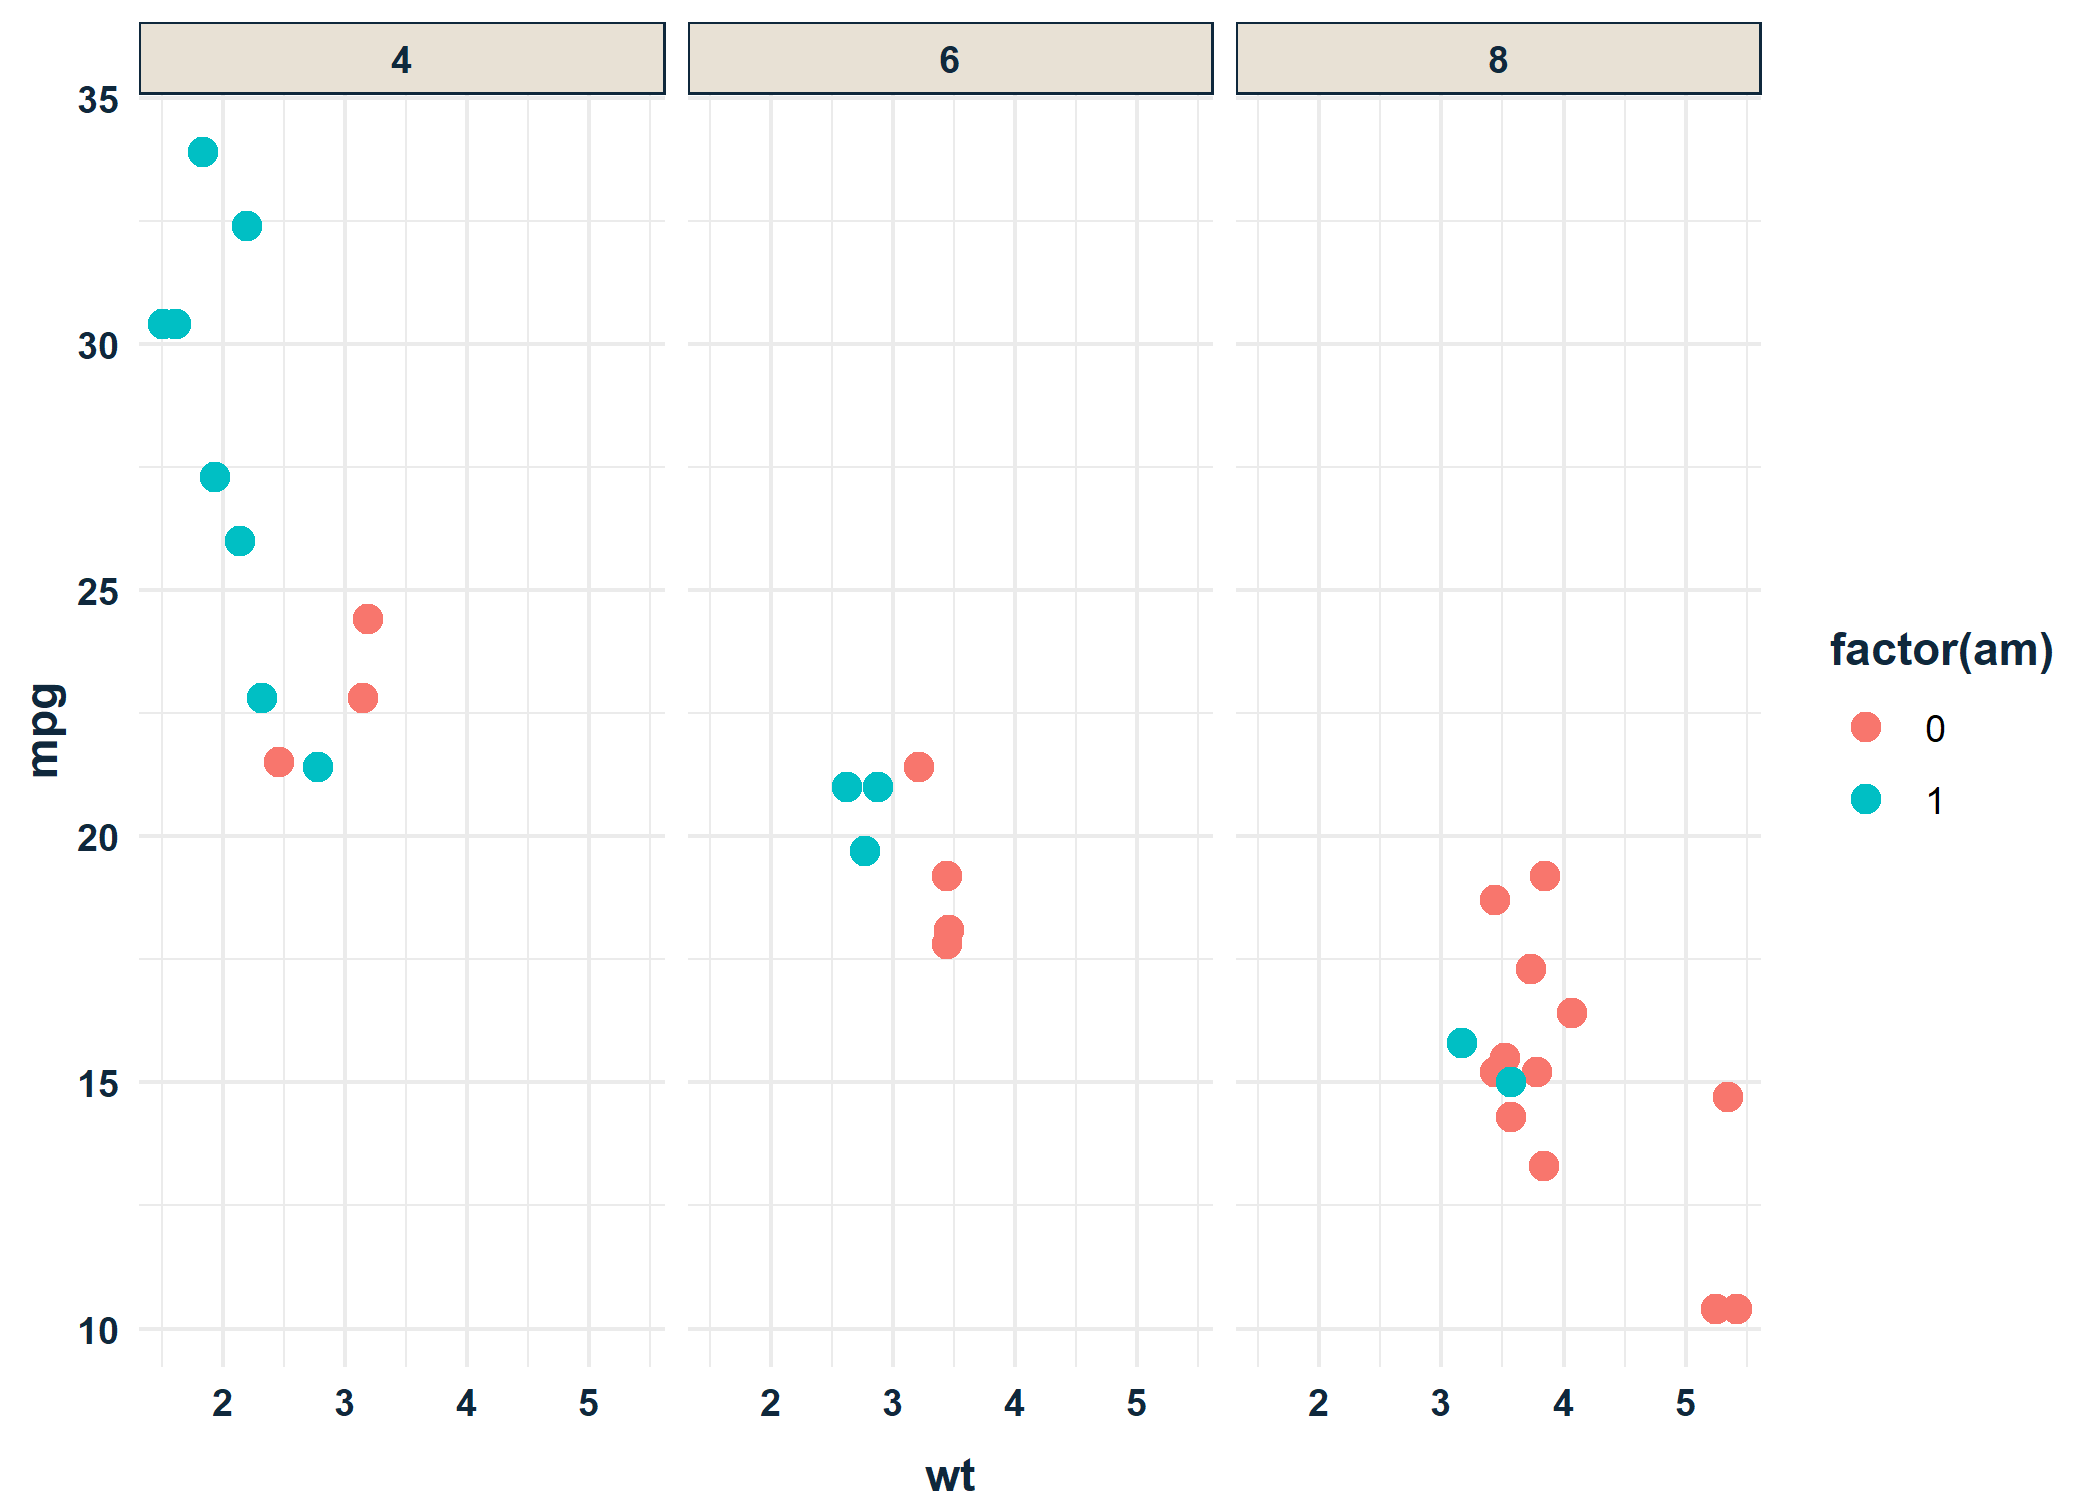
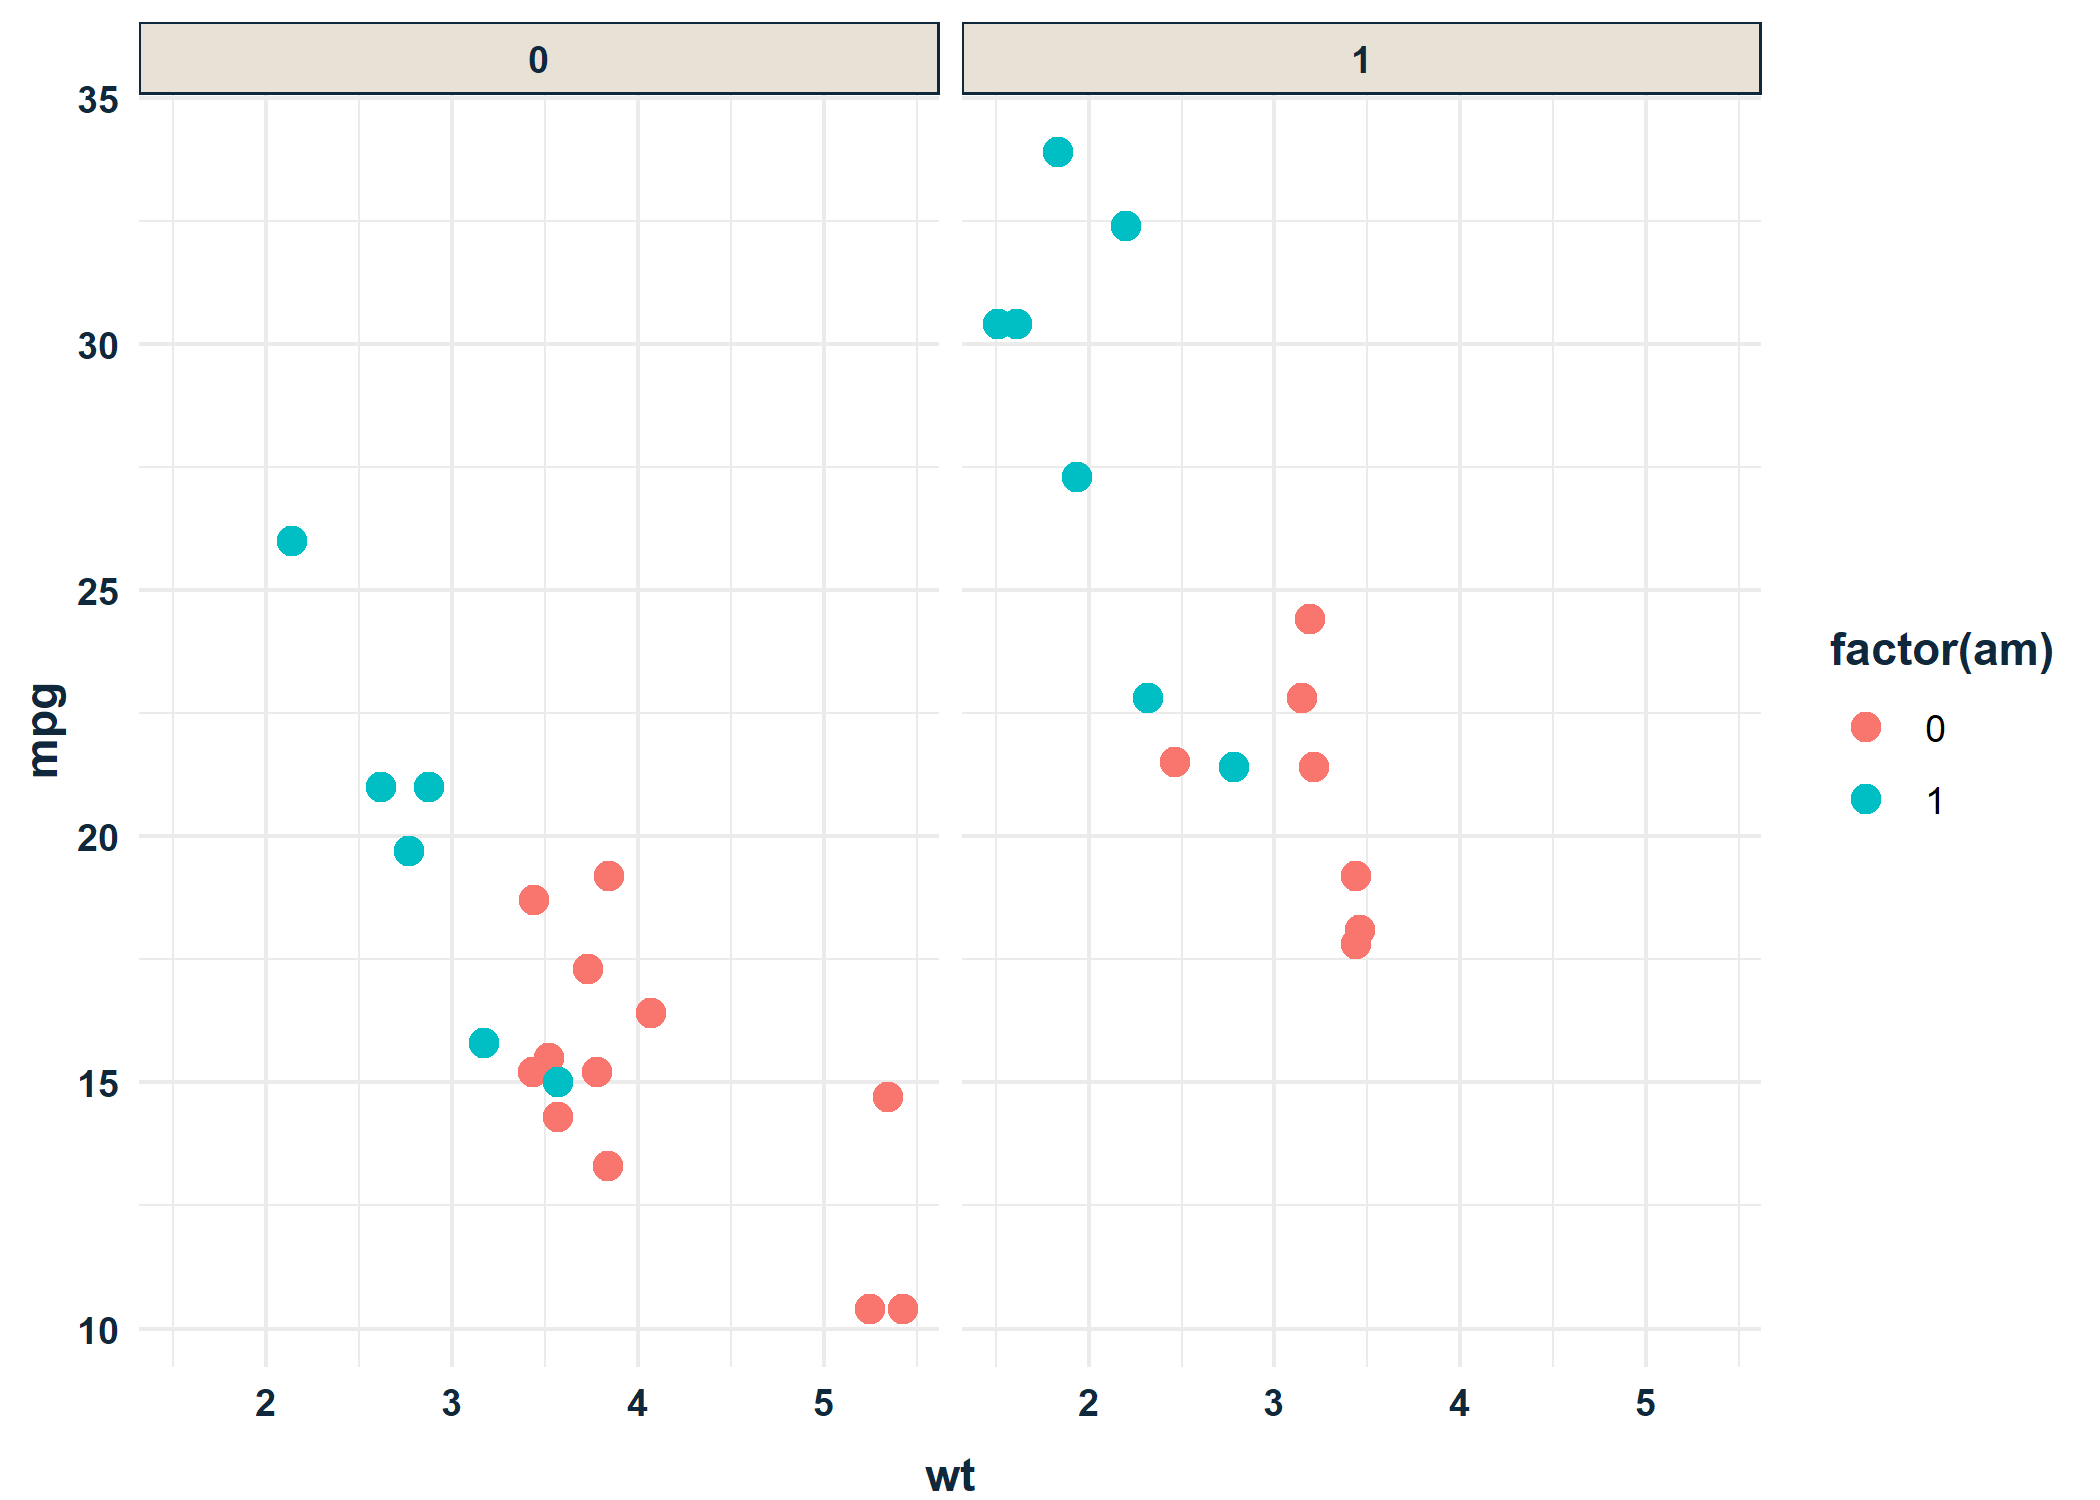
ed

diff --git a/README.md b/README.md
@@ -45,7 +45,7 @@ ggplot(mtcars, aes(x = wt,
                    y = mpg,
                    color = factor(am))) +
   geom_point(size = 3) +
-  facet_wrap(~ cyl) +
+  facet_wrap(~ vs) +
   dsb_style()
 ```
 
